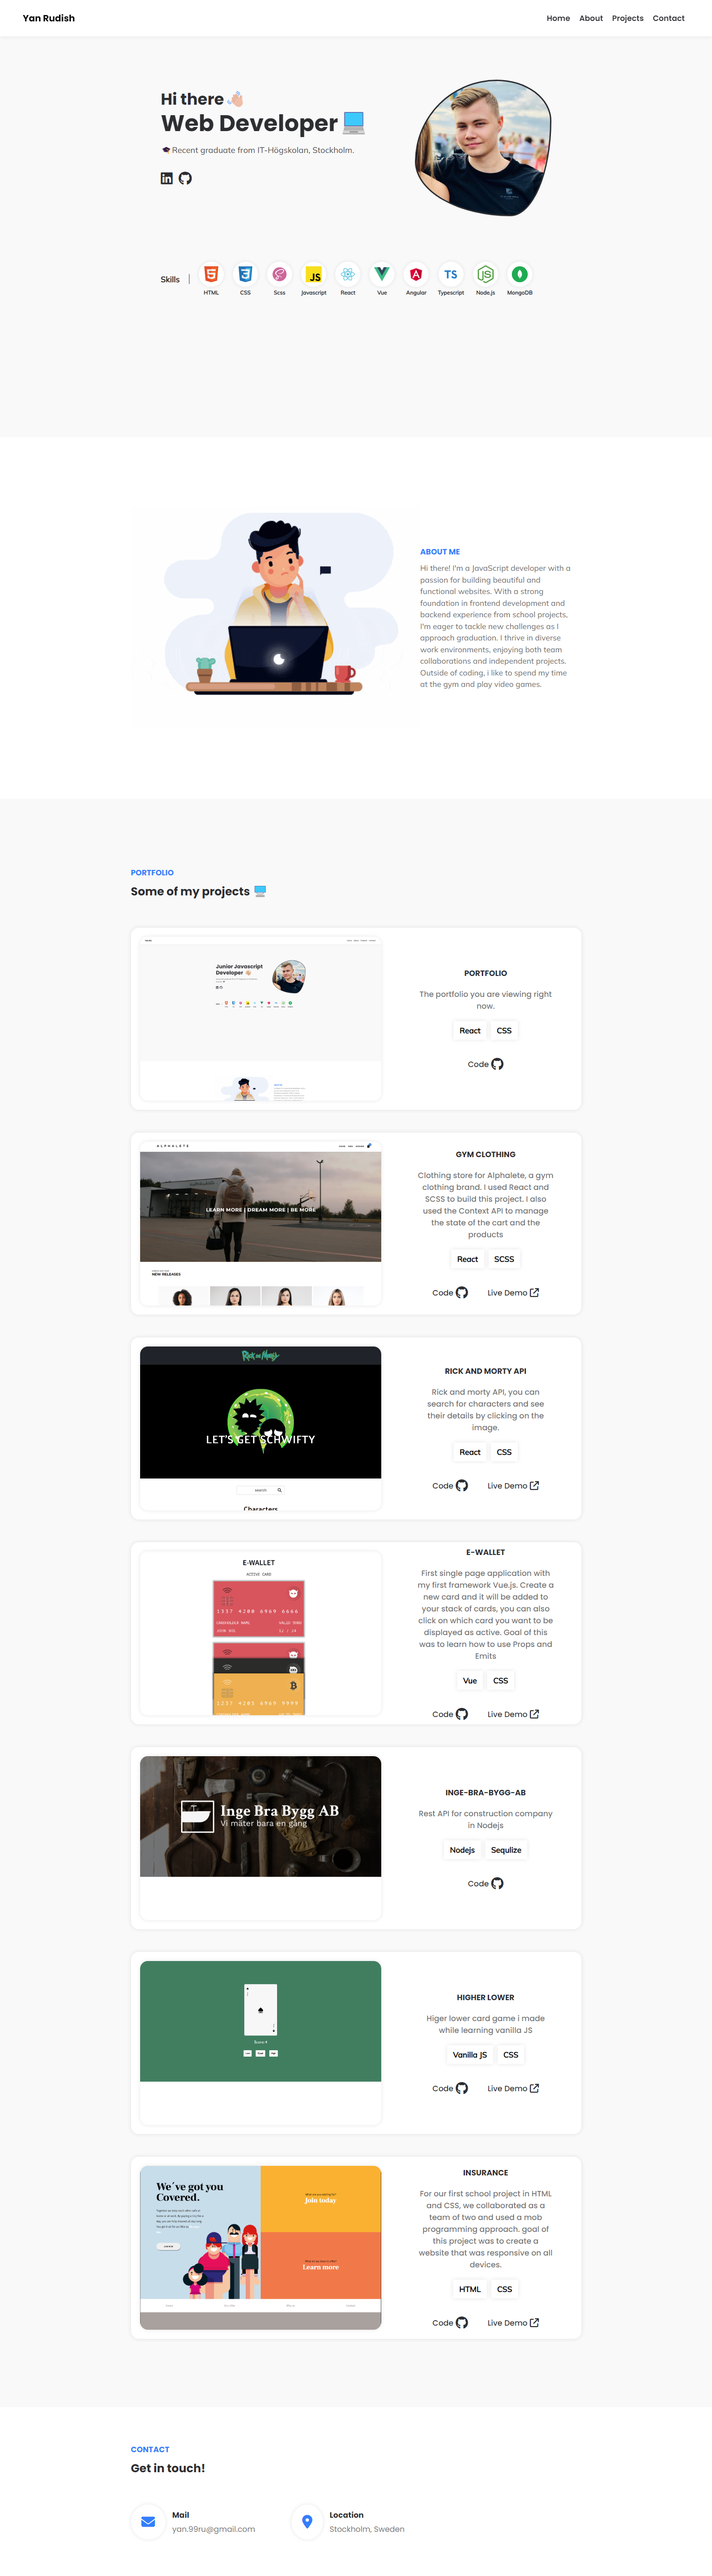
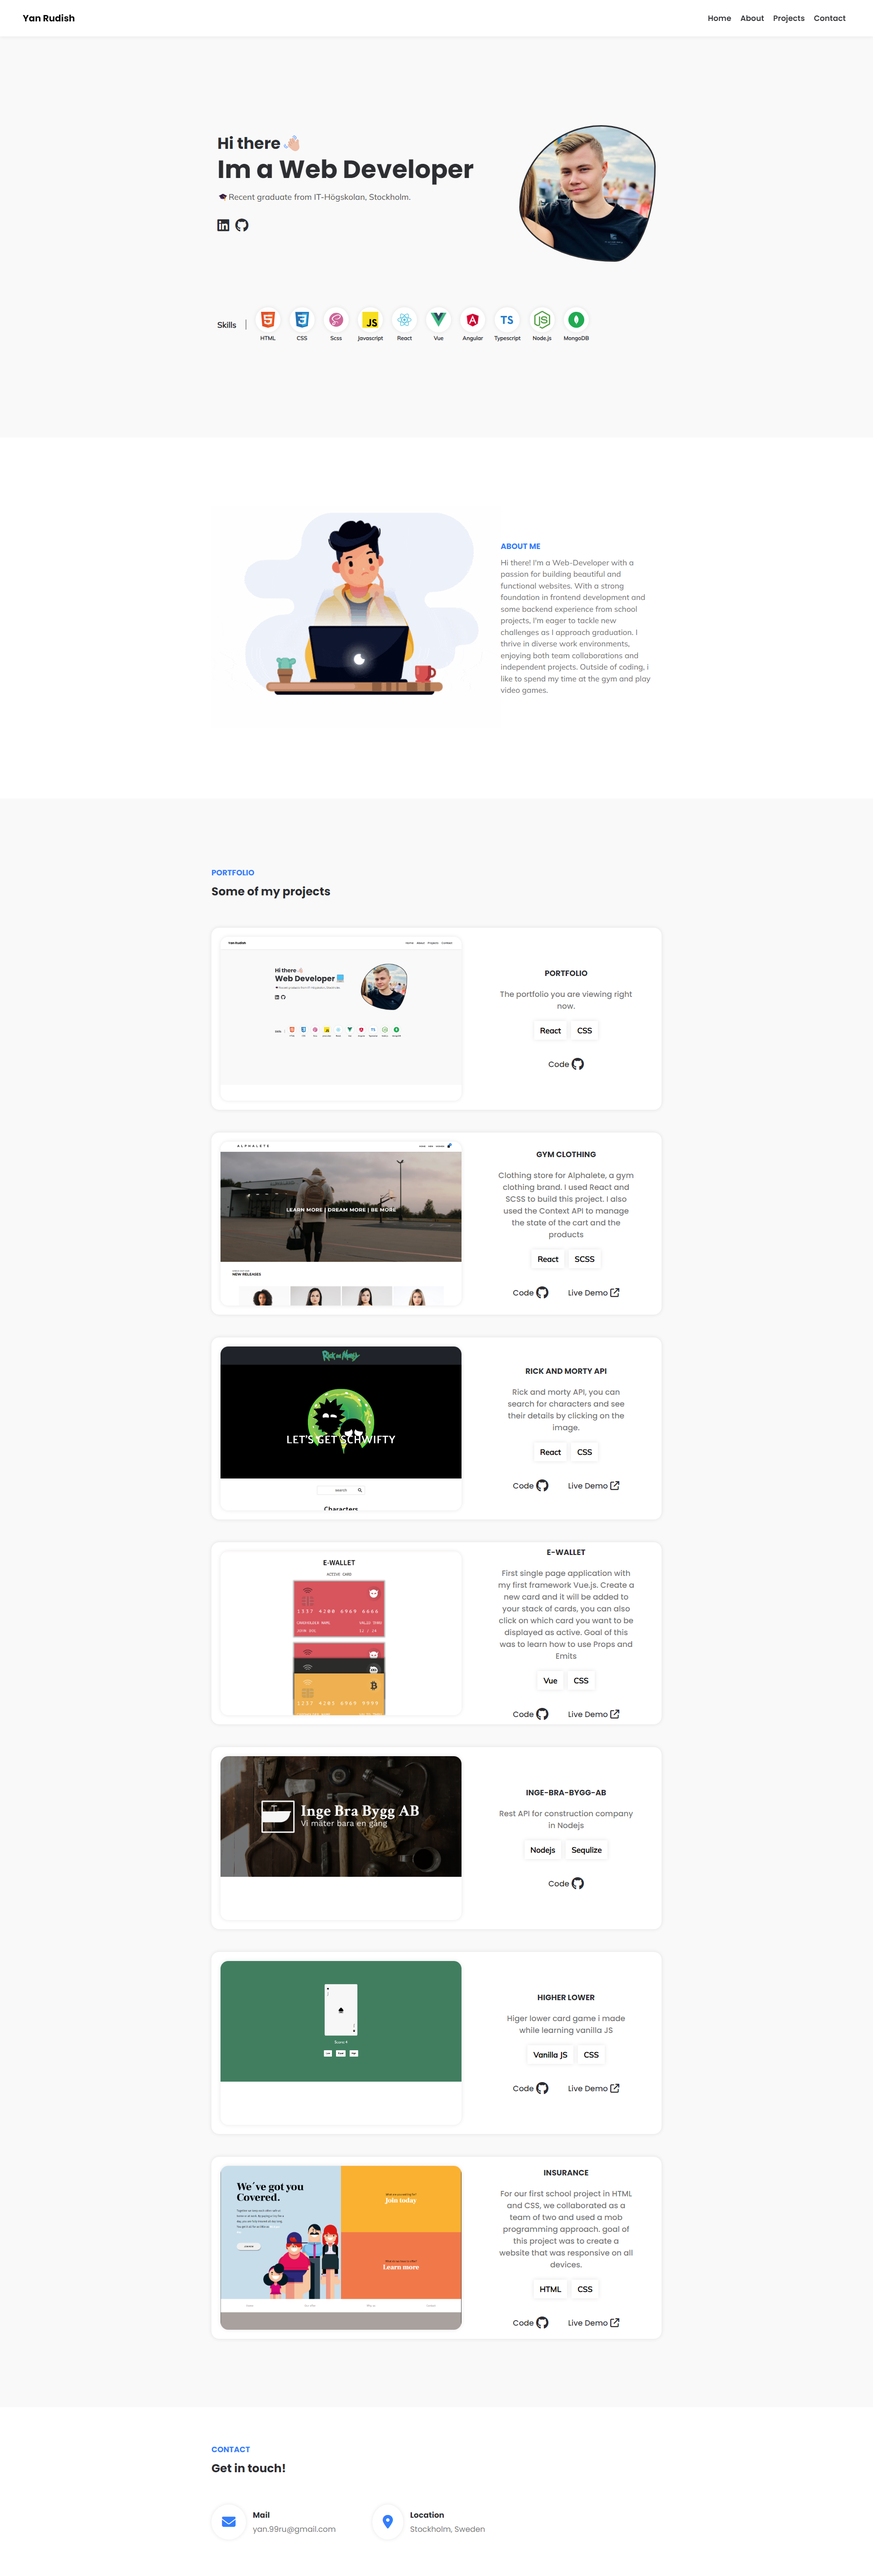
test

diff --git a/src/components/About.js b/src/components/About.js
@@ -13,7 +13,7 @@ function About() {
             <div className="text-side">
               <h3>About me</h3>
               <p>
-               Hi there! I'm a JavaScript developer with a passion for building beautiful and functional websites. With a strong foundation in frontend development and backend experience from school projects, I'm eager to tackle new challenges as I approach graduation. I thrive in diverse work environments, enjoying both team collaborations and independent projects. Outside of coding, i like to spend my time at the gym and play video games.
+               Hi there! I'm a Web-Developer with a passion for building beautiful and functional websites. With a strong foundation in frontend development and some backend experience from school projects, I'm eager to tackle new challenges as I approach graduation. I thrive in diverse work environments, enjoying both team collaborations and independent projects. Outside of coding, i like to spend my time at the gym and play video games.
               </p>
             </div>
           </div>

diff --git a/src/components/Hero.js b/src/components/Hero.js
@@ -63,7 +63,7 @@ function Hero() {
             <div className="hero-main">
               <div className="hero-text">
               <h2>Hi there👋🏼</h2>
-                <h1>Web Developer💻</h1>
+                <h1>Im a Web Developer</h1>
               {/*   <img src={Wave} alt="waving_hand" /> */}
                 <p>🎓Recent graduate from IT-Högskolan, Stockholm. </p>
                 <span>

diff --git a/src/components/Projects.js b/src/components/Projects.js
@@ -15,7 +15,7 @@ function Projects() {
         <div className="container">
           <div className="project-content">
             <p>portfolio</p>
-            <h3>Some of my projects 🖥</h3>
+            <h3>Some of my projects</h3>
             <div className="projects-grid">
               <ProjectItem title="Portfolio"
                img={Portfolio}

diff --git a/src/App.css b/src/App.css
@@ -195,7 +195,7 @@ nav ul a:hover {
 .hero-text {
   display: flex;
   flex-direction: column;
-  max-width: 50rem;
+  max-width: 60rem;
   position: relative;
 }
 .hero-text h1 {
